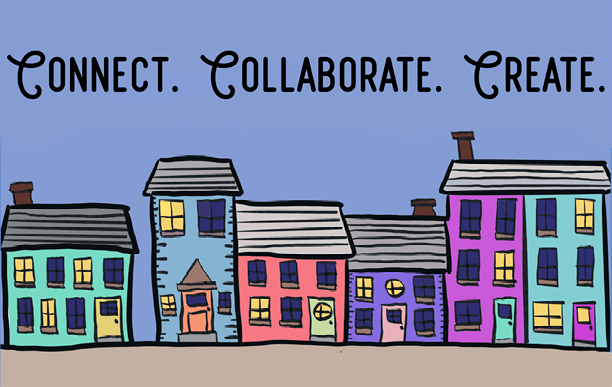
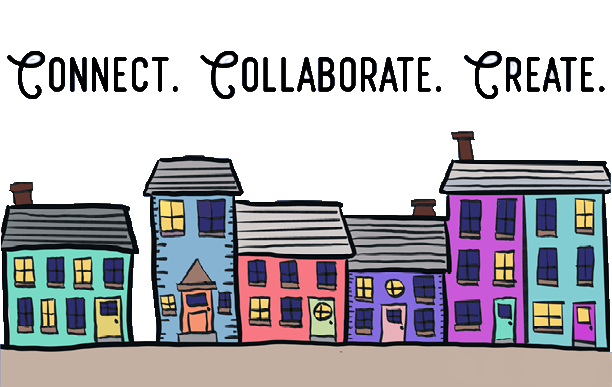
added navigation links on contribute page

diff --git a/contribute.html b/contribute.html
@@ -28,8 +28,13 @@
 </nav>
 <div class="body-content">
     <img class="banner" src="assets/cabaret-banner.png" alt="">
+    <div class="contribute-nav">
+        <a class="btn" href="#performance">Performance</a>
+        <a href="#breakout">Breakout Rooms</a>
+        <a href="#silent-auction">Silent Auction</a>
+    </div>
     <hr>
-    <section>
+    <section id="performance">
         <h2>Contribute a Performance</h2>
         <p>Share your talent with the Goucher M.A.A.A. community at Cabaret!</p>
         <p>For Virtual Cabaret, we will be accepting brief video submissions in a variety of styles – musical performance, monologues, spoken word/poetry, dance etc. We hope to have as much representation from all M.A.A.A. classes as possible!</p>
@@ -40,7 +45,7 @@
             <li>Wide-screen videos are preferable,  but not required</li>
         </ul>
         <h3>To Submit A Video</h3>
-        <p>Please click Submit a Video to be taken to a dropbox folder where you can upload your video.</p>
+        <p>Please click <a target ="blank" href="https://forms.gle/wGuqgjRCifZv8pVe7">Submit a Video</a> to be taken to a google form where you can upload your video.</p>
         <p>Due to limited time, videos will be accepted on a first-come, first-served basis.</p>
         <h3>Tips For Submitting a Great Video</h3>
         <ul>
@@ -50,7 +55,7 @@
         </ul>
     </section>
     <hr>
-    <section>
+    <section id="breakout">
         <h2>Breakout Rooms</h2>
         <p>This year’s cabaret will feature break out rooms: a fun new way to connect through 5-minute presentations around the arts that encourage participation.</p>
         <p>We are looking for idea submissions for break out room presentations you’d like to see or lead. Please click Submit an Idea to share an idea or sign up to present.</p>
@@ -64,12 +69,12 @@
         </ul>
     </section>
     <hr>
-    <section>
+    <section id="silent-auction">
         <h2>Silent Auction</h2>
         <p>Join us for an online silent auction to help raise scholarship monies for the M.A.A.A. program. We are looking for silent auction items donations!</p>
         <p>Past items have included artwork, gift baskets, museum & concert tickets. We encourage creative auction items that can be used in a socially distant context like Zoom lessons on an instrument, paper proofreading, or a virtual tour.</p>
         <p>Donors will be responsible for shipping items.</p>
-        <p>If you would like to donate an item, please <a>contribute</a> to complete the form.</p>
+        <p>If you would like to donate an item, please click <a target="blank" href="https://forms.gle/H4TiY7TfH3DqHnXx7">Contribute</a> to complete the form.</p>
     </section>
     <hr>
 </div>

diff --git a/main.css b/main.css
@@ -70,6 +70,7 @@ ul li {
     color: var(--site);
     margin-bottom: 0.5em;
     font-size: 20px;
+    text-shadow: 0.5px 0.5px 0.5px var(--deep-purple);
 }
 hr {
     border-color: var(--accent);
@@ -241,6 +242,29 @@ footer h1 {
     width: 100%;
     border-radius: 20px;
 }
+
+.contribute-nav {
+    display: flex;
+    justify-content: space-between;
+}
+
+.contribute-nav a {
+    display: block;
+    padding: 2px;
+    width: 100px;
+    text-align: center;
+    font-family: var(--site-font);
+    text-transform: uppercase;
+    letter-spacing: 0.1em;
+    color: var(--deep-purple);
+    background-color: var(--accent);
+    border: 2px solid var(--deep-purple);
+    border-radius: 5px;
+    box-shadow: 0 4px 2px -2px rgba(0,0,0,.3);
+    cursor: pointer;
+    font-size: 8px;
+}
+
 @media screen and (min-width: 800px) {
     nav {
         display: flex;
@@ -303,10 +327,21 @@ footer h1 {
         margin-left: 1.5em;
     }
     .banner {
-        height: 25vh;
+        height: 20vh;
+        width: 90%;
+        display: block;
+        margin: 2em auto;
     }
     .body-content {
       padding: 0 10em;
+    }
+    .contribute-nav {
+        display: flex;
+        justify-content: space-evenly;
+    }
+    .contribute-nav a {
+        width: 200px;
+        font-size: 0.85em;
     }
     .countdown-container {
         width: 80%;
@@ -322,4 +357,4 @@ footer h1 {
         display: block;
         width: 50%;
     }
-  }
+}

diff --git a/script-contribute.js b/script-contribute.js
@@ -2,9 +2,9 @@ const form = document.querySelector('.google-form iframe');
 const contributeBtn = document.querySelector('#contribute-btn');
 const menuIcon = document.querySelector('.menu-icon');
 const menu = document.querySelector('.navbar-nav');
+const modal = document.querySelector('.modal');
 // const countdown = document.querySelector('.countdown');
 // const eventDate = new Date("Jul 31, 2020 19:00:00").getTime();
-
 
 function toggleFormDisplay() {
     if (form.classList.contains('form-open')) {
@@ -33,17 +33,10 @@ function toggleNavMenu(e) {
     }
 }
 
-// function countdownHandler() {
-//     let now = new Date().getTime();
-//     let span = eventDate - now;
-//     let days = Math.floor(span / (1000 * 60 * 60 * 24));
-//     let hours = Math.floor((span % (1000 * 60 * 60 * 24)) / (1000 * 60 * 60));
-//     let minutes = Math.floor((span % (1000 * 60 * 60)) / (1000 * 60));
-//     let seconds = Math.floor((span % (1000 * 60)) / 1000);
-    
-//     countdown.textContent = `${days} Days ${hours} Hours ${minutes} Minutes ${seconds} Seconds`;
-// }
+function openModal() {
+    modal.classList.add('open');
+}
 
 // contributeBtn.addEventListener('click', toggleFormDisplay);
 menuIcon.addEventListener('click', toggleNavMenu);
-// window.setInterval(countdownHandler, 1000);
+contributeBtn.addEventListener('click', openModal);

diff --git a/script.js b/script.js
@@ -7,7 +7,6 @@ const eventDate = new Date("Jul 31, 2020 19:00:00").getTime();
 const rsvp = document.querySelector('.rsvp-btn');
 const donateAnchor = document.querySelector('.donating-link');
 
-
 function toggleFormDisplay() {
     if (form.classList.contains('form-open')) {
         form.classList.remove('form-open');
@@ -51,8 +50,6 @@ function handleDonateClick(e) {
     rsvp.click();
 }
 
-
-// contributeBtn.addEventListener('click', toggleFormDisplay);
 menuIcon.addEventListener('click', toggleNavMenu);
 window.setInterval(countdownHandler, 1000);
 donateAnchor.addEventListener('click', handleDonateClick);
